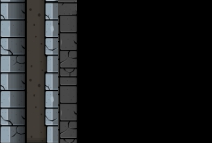
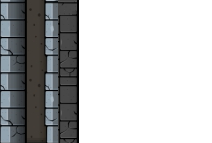
further added textures and created tile sharing properties.

diff --git a/main.py b/main.py
@@ -6,45 +6,46 @@ from source.utils import *
 from source import Game, InteractionObject
 from source.const import GameState, ContainerState, rgb
 
-
-keys = [pygame.K_w, pygame.K_s, pygame.K_a, pygame.K_d]
 DATA_FILES = ['test_map.xml', 'test_map2.xml']
 
-PLAYER_SPEED = 2
-DELAY = 0.5
 
 def main():
+    """The main looping function."""
     game = Game()
     game.state = GameState.RUNNING
     
     while game.state != GameState.ENDED:
+        
         game.screen.fill(rgb.BLACK)
-        #pygame.display.set_caption(str(game.clock.get_fps()))
         game.clock.tick(game.graphics['FPS']/game.graphics['SCALE']*4)
         game.update()
+        
         if game.state == GameState.RUNNING:
+            pygame.display.set_caption(f"{game.clock.get_fps()} FPS")
             if game.held_keys['w']:
                 game.player.face(Directions.NORTH)
-                game.player.move(north(game.player.position), None)
+                game.player.move(north(game.player.position))
                 
             elif game.held_keys['a']:
                 game.player.face(Directions.WEST)
-                game.player.move(west(game.player.position), None)
+                game.player.move(west(game.player.position))
                 
             elif game.held_keys['s']:
                 game.player.face(Directions.SOUTH)
-                game.player.move(south(game.player.position), None)
+                game.player.move(south(game.player.position))
                 
             elif game.held_keys['d']:
                 game.player.face(Directions.EAST)
-                game.player.move(east(game.player.position), None)
+                game.player.move(east(game.player.position))
             
         pygame.display.flip()
+    
     # Reset the data files to their default values.
     for filename in DATA_FILES:
         shutil.copy(
             f'resources/maps/data/defaults/{filename}',
             f'resources/maps/data/{filename}')
+    
     pygame.quit()
 
 

diff --git a/source/map.py b/source/map.py
@@ -137,7 +137,7 @@ class Map:
                 for y, line in enumerate(map_file.readlines()):
                     row = []
                     for x, char in enumerate(line.strip()):
-                        tile: Tile | None = None
+                        tile: Tile | tuple | None = None
                         match char:
                             case '#':
                                 tile = MapTiles.BACK_WALL
@@ -156,6 +156,12 @@ class Map:
                             
                             case '-':
                                 tile = MapTiles.TILES
+                            
+                            case '%':
+                                tile = (MapTiles.GRASS, MapTiles.RIGHT_WALL)
+                            
+                            case '^':
+                                tile = MapTiles.GRASS
                             
                             case '+':
                                 for _data in self.containers:
@@ -210,10 +216,14 @@ class Map:
     
     def render(self) -> None:
         """Renders the environment from the loaded tiles."""
+        scale = self.game.settings.get_graphics()["SCALE"]
         for y, row in enumerate(self.tiles):
             for x, tile in enumerate(row):
                 if not isinstance(tile, Tile):
+                    if isinstance(tile, tuple):
+                        _rect = pygame.Rect(x * SCALE, y * SCALE, scale**4, scale**4)
+                        self.game.screen.blit(tile[0].texture, _rect)
+                        self.game.screen.blit(tile[1].texture, _rect)
                     continue
-                scale = self.game.settings.get_graphics()["SCALE"]
                 rect = pygame.Rect(x * SCALE, y * SCALE, scale**4, scale**4)
                 self.game.screen.blit(tile.texture, rect)

diff --git a/source/player.py b/source/player.py
@@ -60,7 +60,7 @@ class Player(Entity):
         if direction in Directions:
             self.facing_direction = direction
     
-    def move(self, position, dt):
+    def move(self, position):
         x, y = position
         asset = self.game.map.tiles[y//4][x//4]
         
